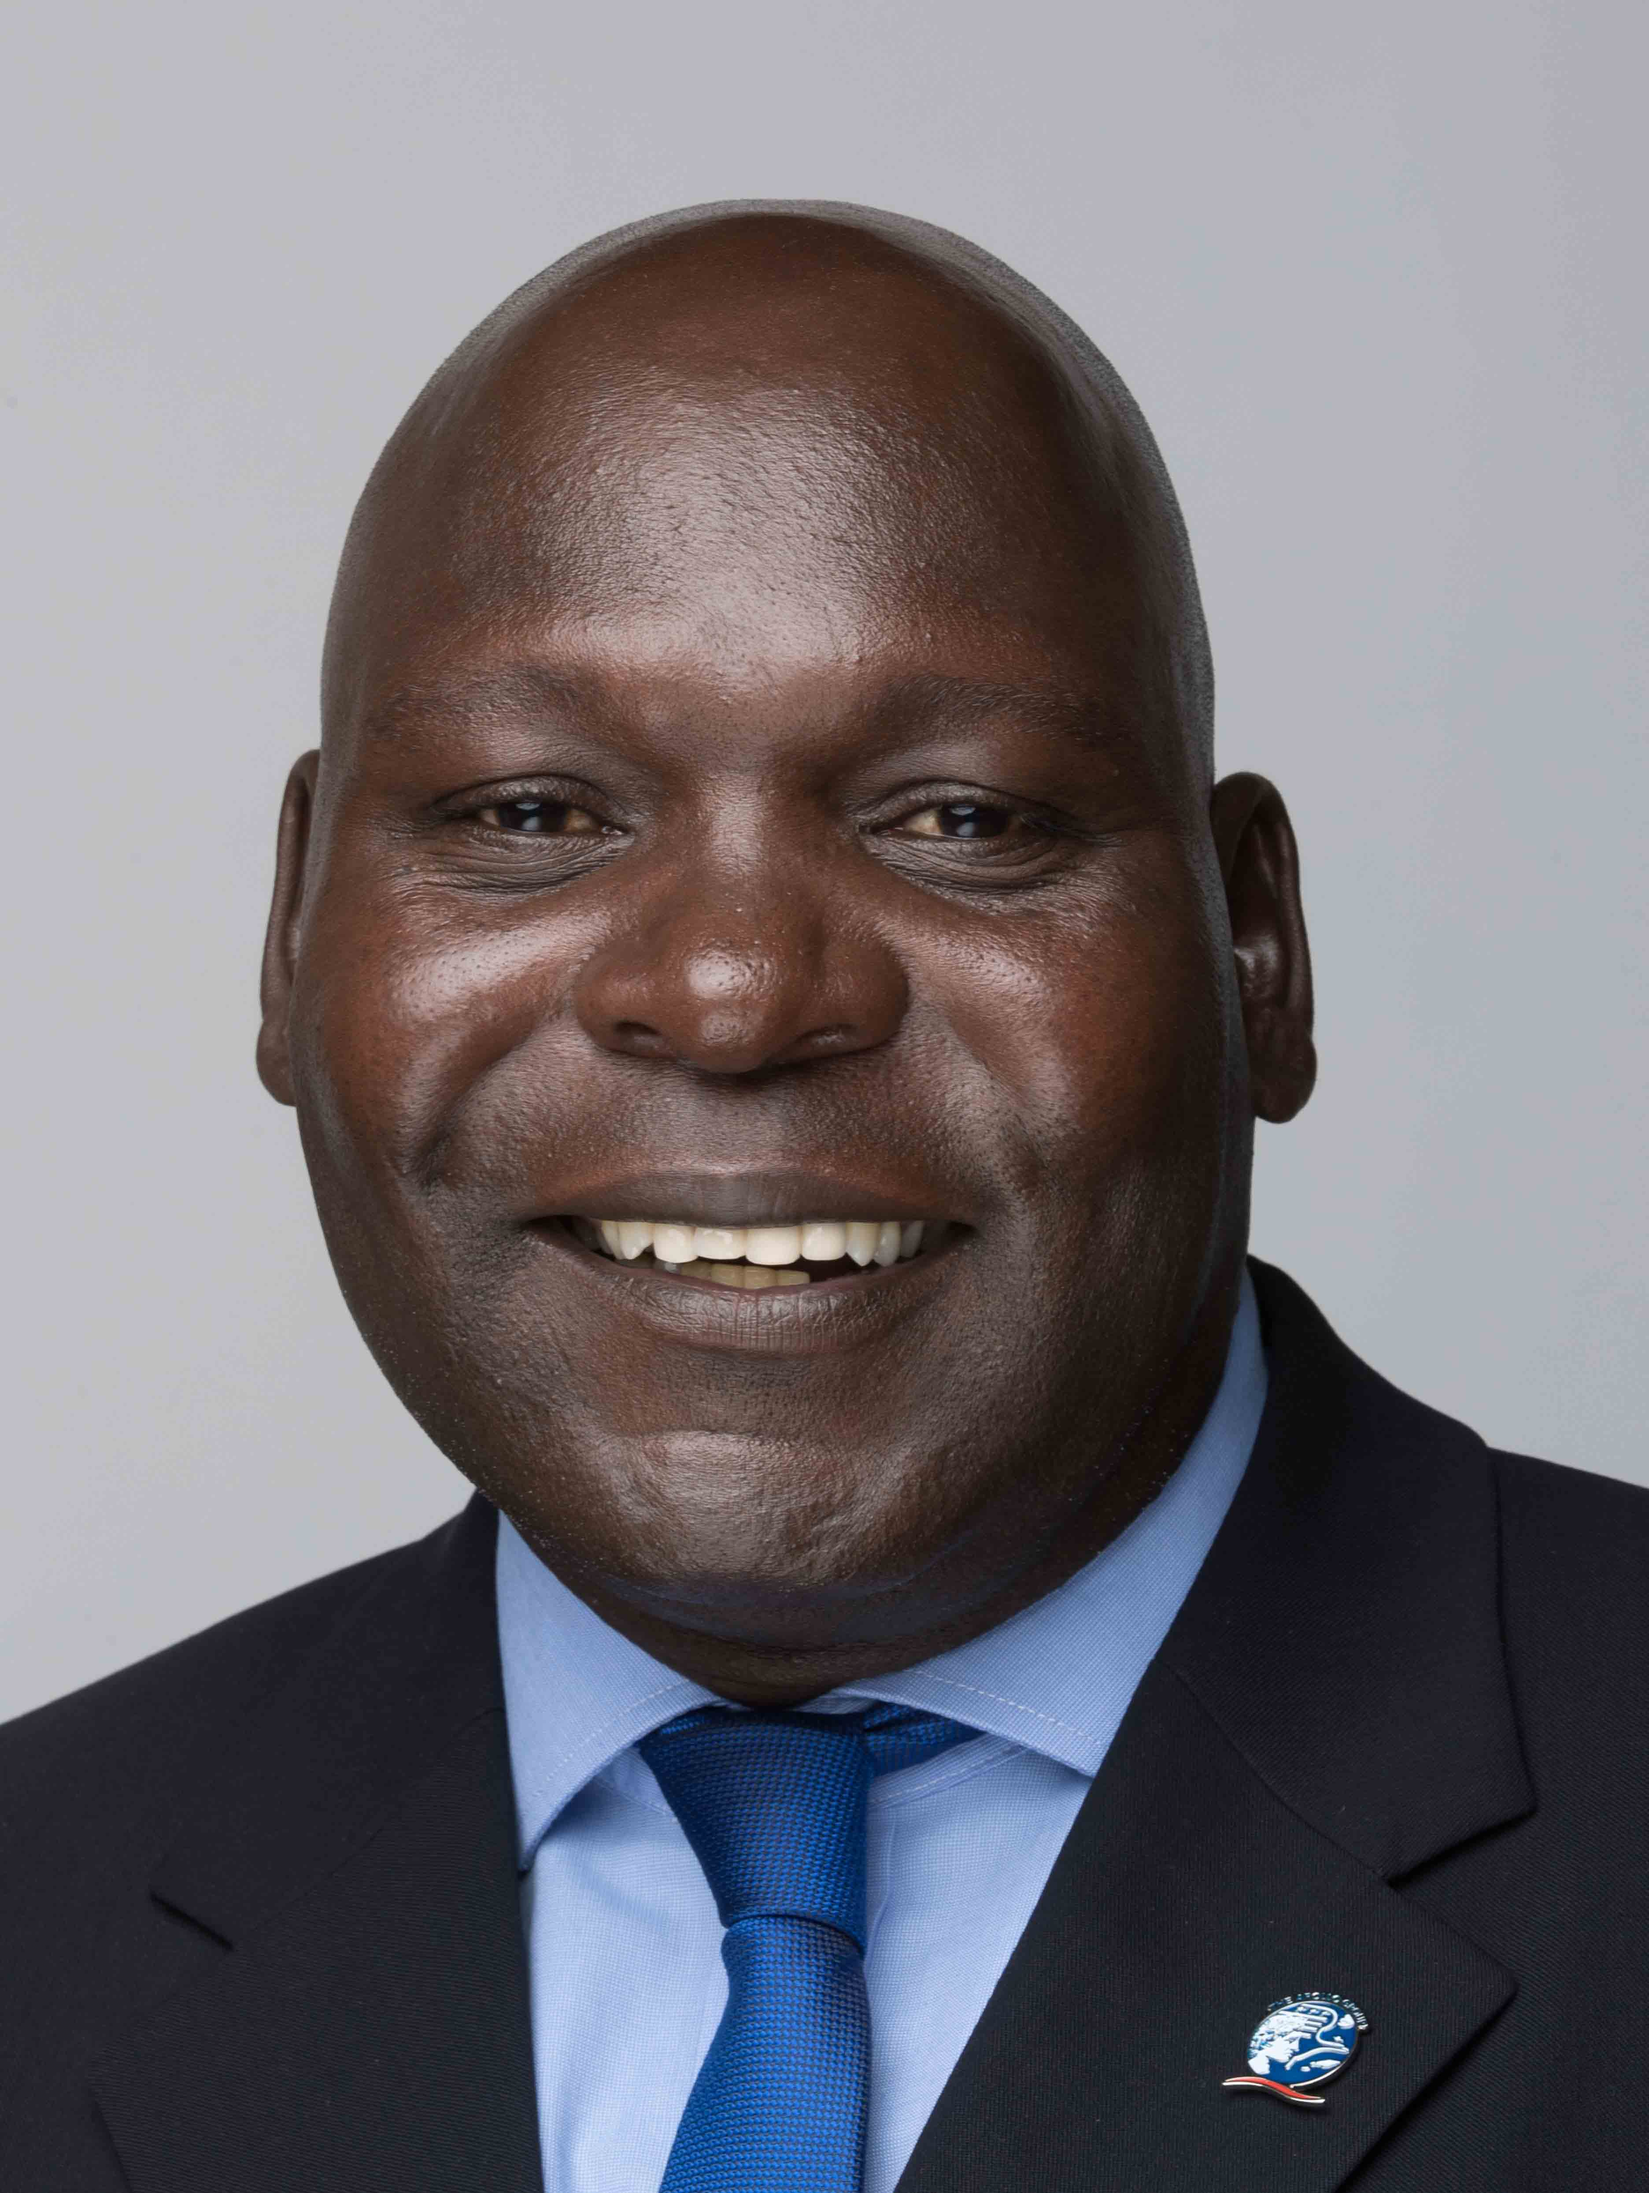
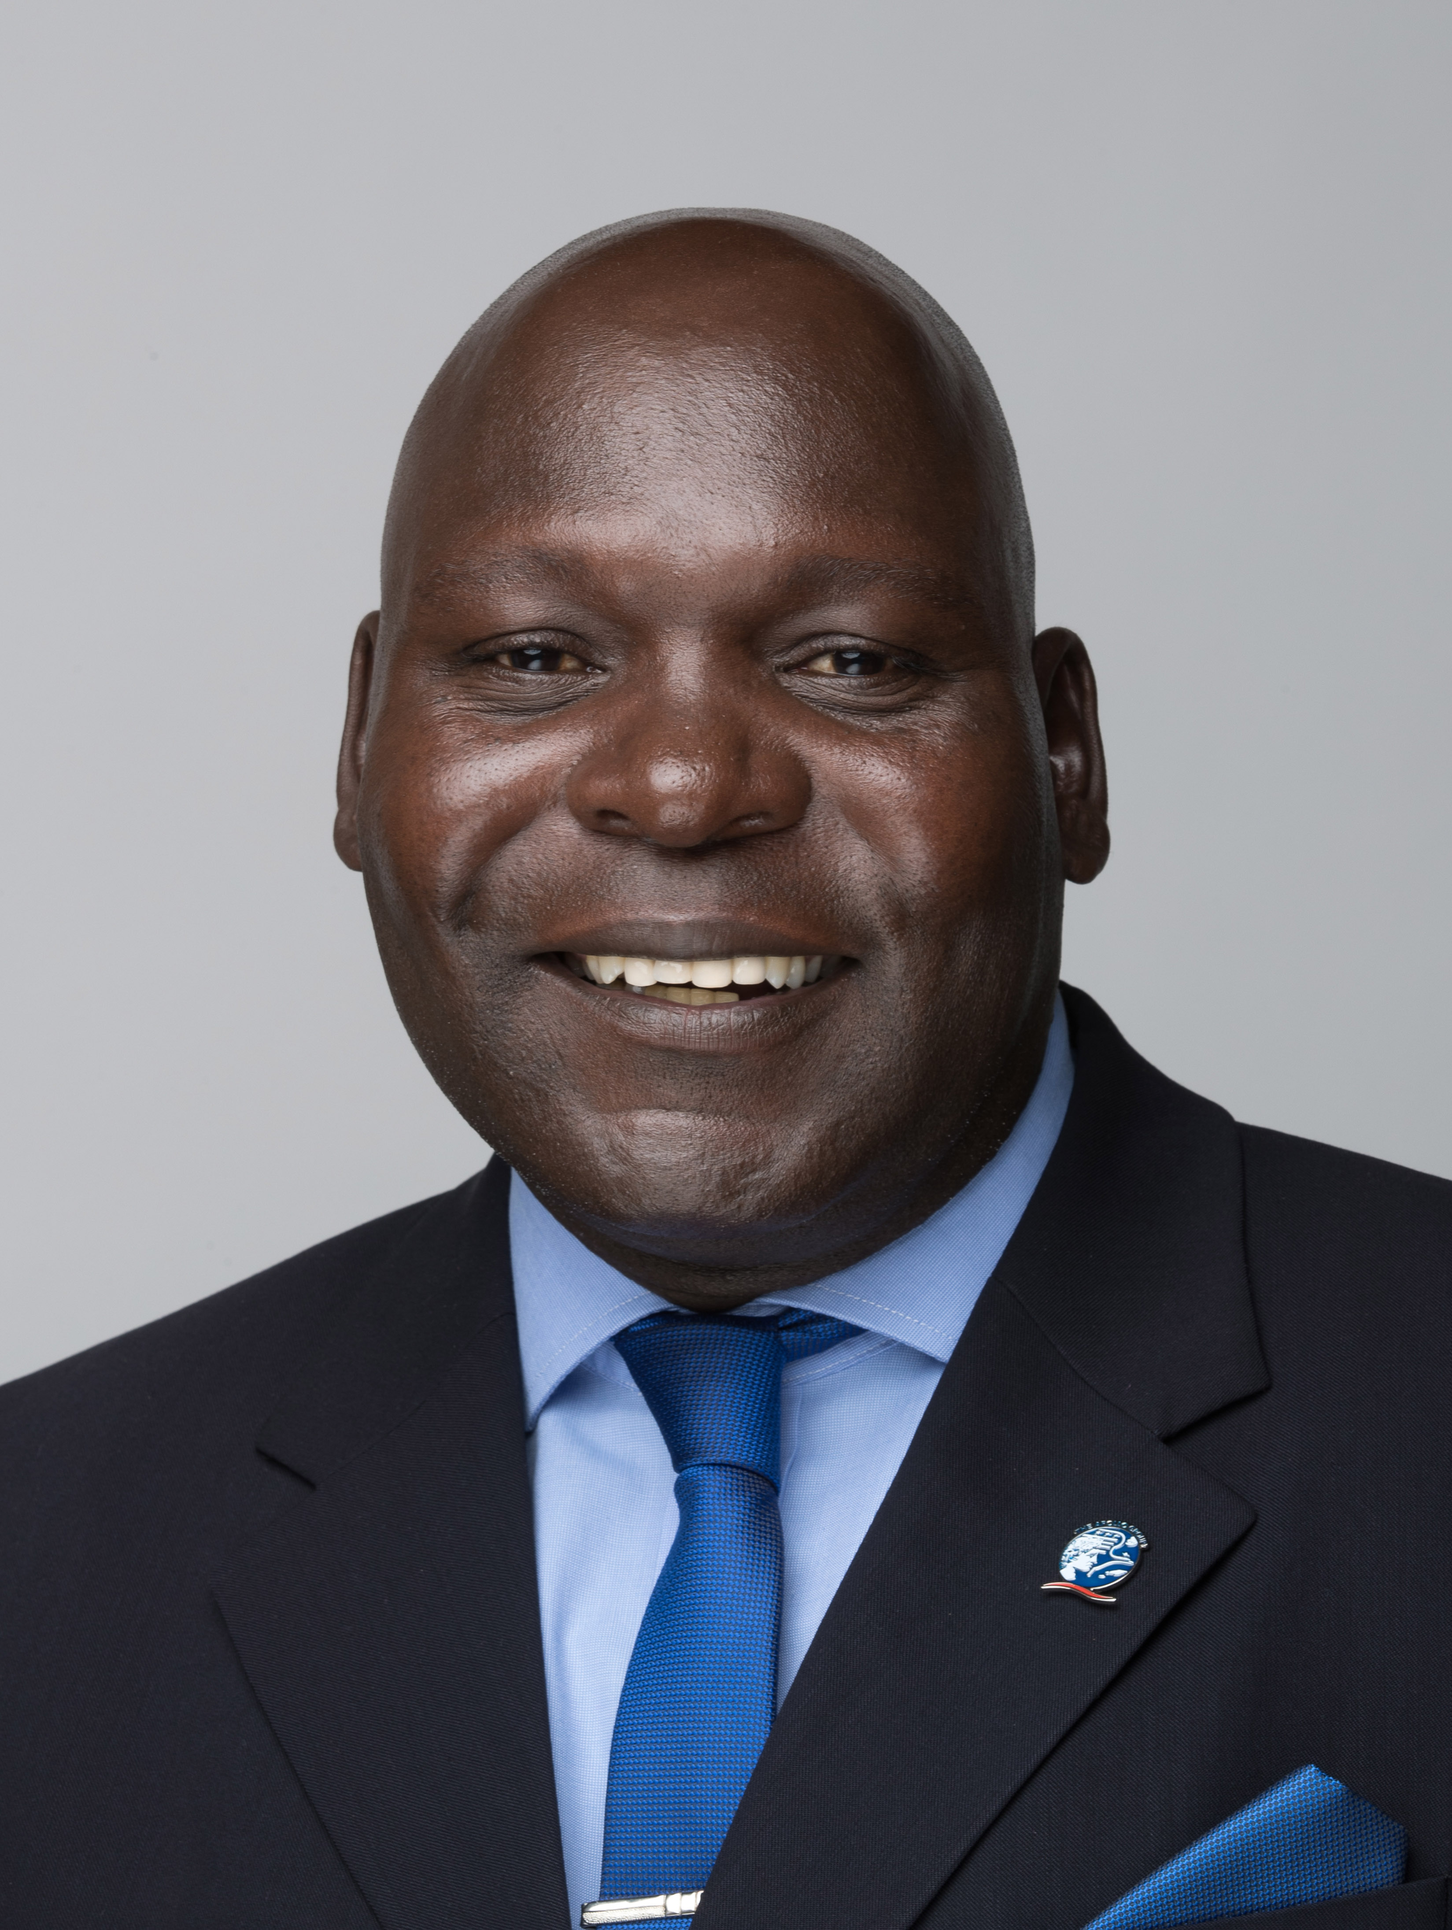
adjustment

diff --git a/css/draft.css b/css/draft.css
@@ -248,7 +248,7 @@ a:focus {
     background-image: url(../img/group/asset.jpg);
     background-size: cover;
     background-repeat: no-repeat;
-    background-position: top;
+    background-position: center;
     margin-top: 3%;
 }
 

diff --git a/management_asset.php b/management_asset.php
@@ -147,6 +147,25 @@
                         <button class="btn btn-primary" data-target="#modal-full3" uk-toggle>Read more</button>
                     </div>
 
+
+                </div>
+
+                <div class="row lead-img ">
+
+                    <div class="col-md-3-offset-8 leader-img wow fadeInUp" data-wow-delay="0.1s">
+                        <img src="img/apa4/eva.jpg" class="img" alt="">
+                        <h5 class="title-name">
+                            Eva Labatt<br>
+                            <small>Unit Trust Officer</small>
+                        </h5>
+
+                        <p>
+                            Eva Labatt is the Unit Trust Officer at Apollo Asset Management Company...
+                        </p>
+                        <button class="btn btn-primary" data-target="#modal-full3" uk-toggle>Read more</button>
+                    </div>
+
+
                 </div>
 
             </div>

diff --git a/management.php b/management.php
@@ -160,7 +160,7 @@
                 <div class="row lead-img">
 
                     <div class="col-md-3 leader-img wow fadeInUp" data-wow-delay="0.1s">
-                        <img src="img/managment/amos.jpg" class="img" alt="">
+                        <img src="img/apa3/amos.jpg" class="img" alt="">
                         <h5 class="title-name">
                             Amos Mabuka<br>
                             <small>Director of business development</small>
